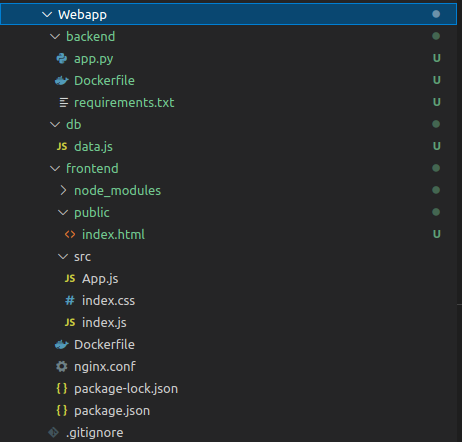
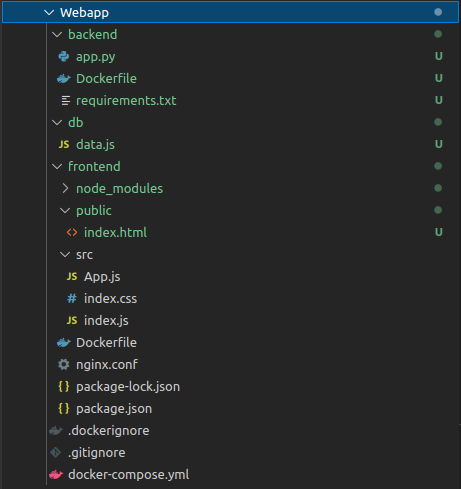
edit README.md

diff --git a/Practice-3/vu-thi-huyen/README.md b/Practice-3/vu-thi-huyen/README.md
@@ -151,6 +151,23 @@ Docker Compose là một công cụ dùng để định nghĩa và chạy các c
 
 ## **3. Thực hành: xây dựng website**
 
-* init
+Set up a three-tier web application that displays the course attendees’ information on the browser using docker-compose.
+
+* Base images:
+
+    * nginx:1.22.0-alpine
+    * python:3.9
+    * mongo:5.0
+
+* Khởi tạo dự án
 
     ![webapp](./img/wbapp-tree.png)
+
+* Chạy lệnh 'docker-compose up --build -d`
+
+    ![up](./img/docker-compose-up.png)
+
+* Kiểm tra lại tại [http:localhost:80](http:localhost:80)
+
+    ![ok](./img/result.png)
+
